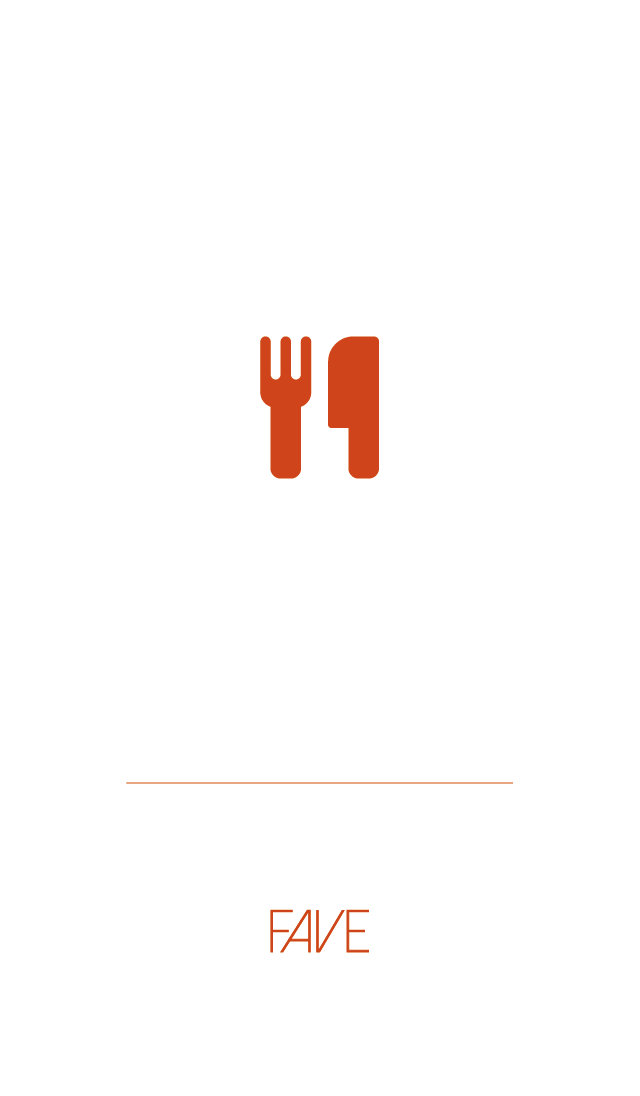
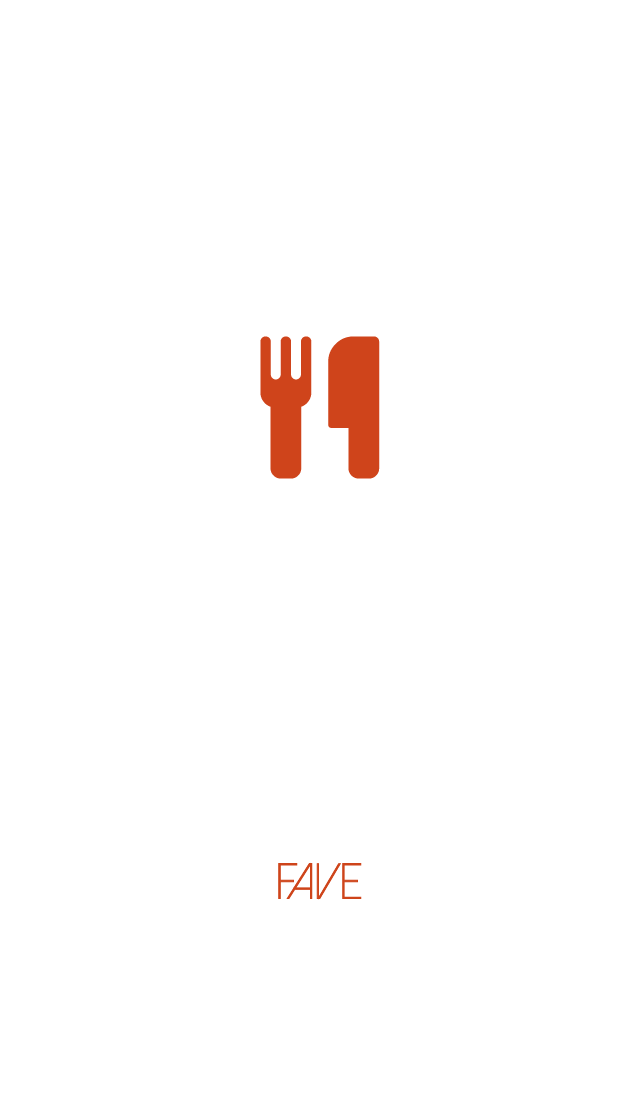
fixes to startup and load screens

Changed region(s): [[0.4062, 0.7755, 0.5625, 0.8686]]

diff --git a/www/index.html b/www/index.html
@@ -14,16 +14,25 @@
   <meta name="apple-mobile-web-app-title" content="Fave">
   
 
-  <!-- iPhone -->
-  <link href="img/apple-touch-startup-image-320x460.png"
-        media="(device-width: 320px) and (device-height: 480px)
-           and (-webkit-device-pixel-ratio: 1)"
-        rel="apple-touch-startup-image">
   <!-- iPhone 5 -->
   <link href="img/apple-touch-startup-image-640x1096.png"
         media="(device-width: 320px) and (device-height: 568px)
            and (-webkit-device-pixel-ratio: 2)"
         rel="apple-touch-startup-image">
+
+
+  <!-- Letterboxed on iPhone 5 -->
+  <meta name="viewport"
+        content="width=device-width">
+  <meta name="viewport"
+        content="width=320">
+  <!-- Not letterboxed on iPhone 5 -->
+  <meta name="viewport"
+        content="initial-scale=1.0">
+  <meta name="viewport"
+        content="width=320.1">
+
+
 
   <!-- Phonegap specific stuff -->
   <script type="text/javascript" src="cordova.js"></script>

diff --git a/www/src/pages/home/home.html b/www/src/pages/home/home.html
@@ -47,7 +47,7 @@
   </div>
 
   <!-- No meals nearby -->
-  <div ng-show="carousel.items.length === 0 && !settings.loadingGeoLocation && !carousel.loading">
+  <div ng-show="carousel.items.length === 0 && !settings.loadingGeoLocation && !carousel.loading" class="no-meals">
     No tasty meals nearby :(
   </div>
 </div>

diff --git a/www/src/app.less b/www/src/app.less
@@ -5,11 +5,17 @@
  * Main.less
  **************************/
 
+html {
+    background-color: black;
+
+}
+
+
 html, body, .main-container, .single-meal, .rn-carousel-container, .rn-carousel-slides {
   height: 100%;
   font-weight: 300;  
-  background-color: black;
 }
+
 h1 {
   color: #333;
   font-size: 16px;

diff --git a/www/src/pages/home/home.less b/www/src/pages/home/home.less
@@ -12,6 +12,9 @@
     height: 100%;
     padding-top: 40%;
     text-align: center;
+    background-color: white;
+  }
+  .no-meals {
     color: white;
   }
 
